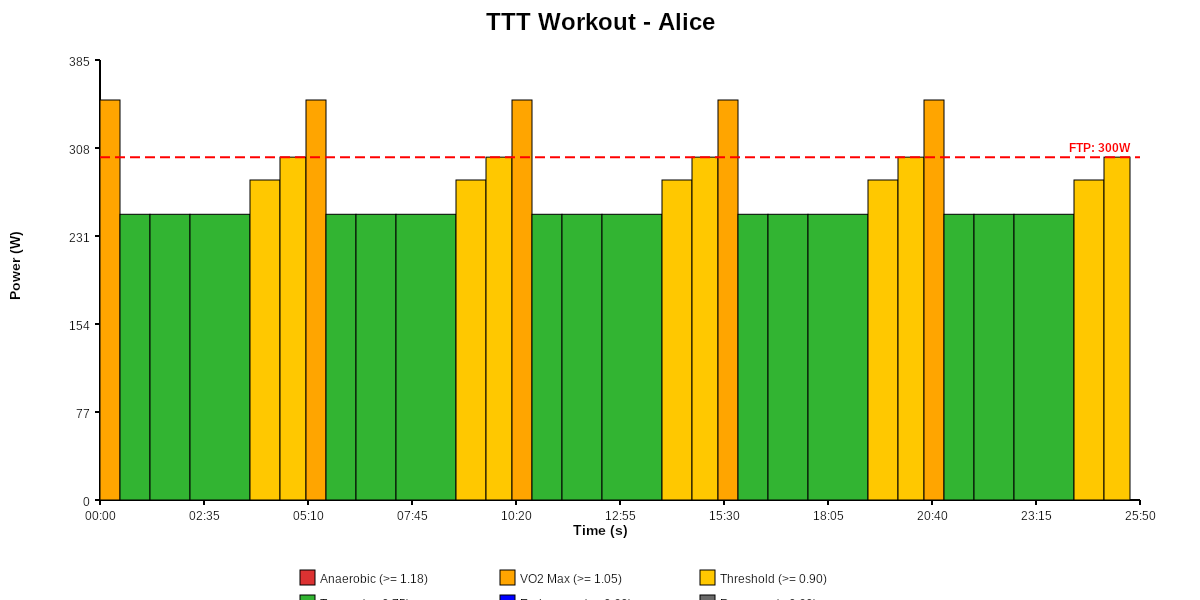
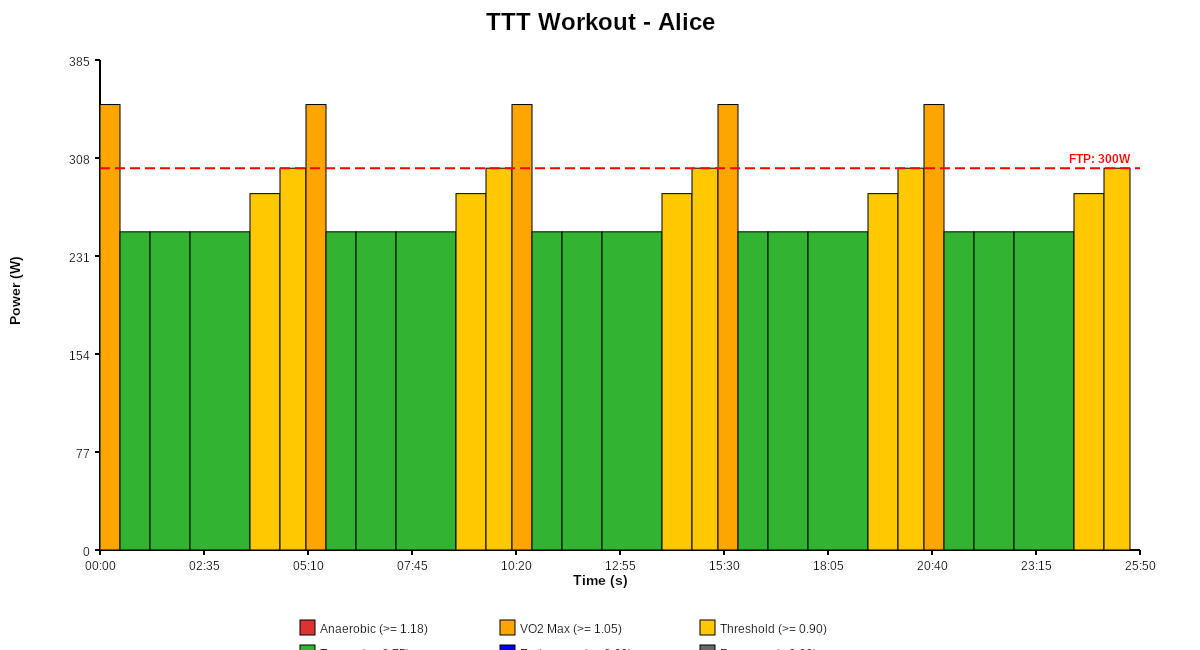
Increase chart height to 650px to accommodate legend

diff --git a/ZwiftTTTSim.Core/Services/ImageExporter.cs b/ZwiftTTTSim.Core/Services/ImageExporter.cs
@@ -7,7 +7,7 @@ namespace ZwiftTTTSim.Core.Services;
 public class ImageExporter
 {
     private const int ChartWidth = 1200;
-    private const int ChartHeight = 600;
+    private const int ChartHeight = 650;
     private const int Padding = 60;
     private const int AxisPadding = 40;
     private const double PowerRangePaddingMultiplier = 1.1;
